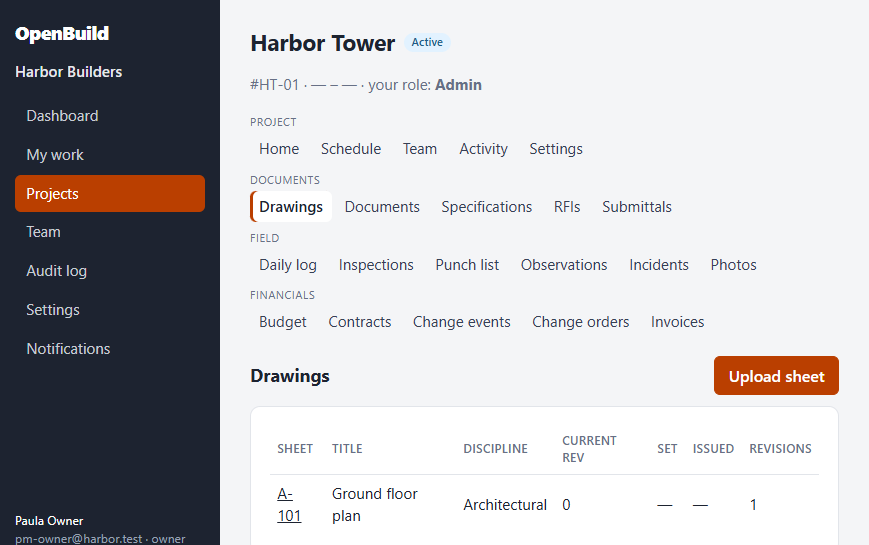
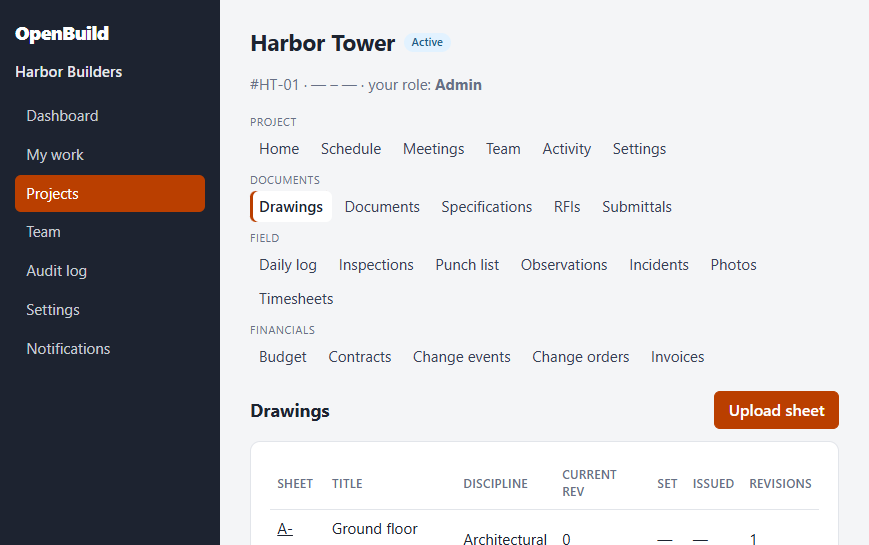
MFA recovery codes and admin reset; inline confirmations; CUA run 32/32
Ten hashed single-use recovery codes, owner/admin reset of a member's second
factor (signs them out, cross-org guarded). Replaces blocking window.confirm
with an inline confirm step. CUA GUI run now covers meetings, timesheets and
two-factor sign-in, including after a hard restart.

diff --git a/apps/api/src/routes/account.ts b/apps/api/src/routes/account.ts
@@ -152,11 +152,13 @@ export const accountRoutes = (config: AppConfig): FastifyPluginAsync => async (a
     const [u] = await db.query<{ totp_secret: string | null; totp_enabled: boolean }>("SELECT totp_secret, totp_enabled FROM users WHERE id = $1", [user.id]);
     if (u!.totp_enabled) throw new HttpError(409, "Two-factor login is already on");
     if (!u!.totp_secret || !verifyTotp(u!.totp_secret, b.code)) throw new HttpError(400, "That code is not valid");
+    // Ten single-use recovery codes, shown once, stored only as hashes.
+    const codes = Array.from({ length: 10 }, () => newToken().token.replace(/[^A-Za-z0-9]/g, "").slice(0, 10).toLowerCase());
     await db.tx(async (q) => {
-      await q.query("UPDATE users SET totp_enabled = true WHERE id = $1", [user.id]);
+      await q.query("UPDATE users SET totp_enabled = true, mfa_recovery_hashes = $2 WHERE id = $1", [user.id, codes.map(sha256)]);
       await audit(q, { orgId: null, actorId: user.id, action: "user.mfa_enable", entityType: "user", entityId: user.id });
     });
-    return { ok: true };
+    return { ok: true, recoveryCodes: codes };
   });
 
   app.post("/me/mfa/disable", async (req) => {
@@ -166,8 +168,34 @@ export const accountRoutes = (config: AppConfig): FastifyPluginAsync => async (a
     if (!u!.totp_enabled) throw new HttpError(409, "Two-factor login is off");
     if (!(await verifyPassword(b.password, u!.password_hash)) || !verifyTotp(u!.totp_secret!, b.code)) throw new HttpError(400, "Password or code is incorrect");
     await db.tx(async (q) => {
-      await q.query("UPDATE users SET totp_enabled = false, totp_secret = NULL WHERE id = $1", [user.id]);
+      await q.query("UPDATE users SET totp_enabled = false, totp_secret = NULL, mfa_recovery_hashes = '{}' WHERE id = $1", [user.id]);
       await audit(q, { orgId: null, actorId: user.id, action: "user.mfa_disable", entityType: "user", entityId: user.id });
+    });
+    return { ok: true };
+  });
+
+  /**
+   * Lost-phone recovery by an administrator: owners can reset anyone else's second factor, admins only members'.
+   * Same cross-organization guard as reset links. The person signs in with their password and can enrol again.
+   */
+  app.post<{ Params: { orgId: string; userId: string } }>("/orgs/:orgId/members/:userId/reset-mfa", async (req) => {
+    const user = requireUser(req);
+    if (!isUuid(req.params.orgId) || !isUuid(req.params.userId)) throw new HttpError(404, "Member not found");
+    const myRole = await requireOrgRole(db, user.id, req.params.orgId, ["owner", "admin"]);
+    if (req.params.userId === user.id) throw new HttpError(400, "Use your recovery codes or account page for your own two-factor login");
+    const [target] = await db.query<{ role: string }>("SELECT role FROM org_memberships WHERE org_id = $1 AND user_id = $2", [req.params.orgId, req.params.userId]);
+    if (!target) throw new HttpError(404, "Member not found");
+    if (myRole === "admin" && target.role !== "member") throw new HttpError(403, "Admins can only reset members");
+    const [foreign] = await db.query(
+      `SELECT 1 FROM org_memberships m WHERE m.user_id = $1 AND m.org_id <> $2
+          AND NOT EXISTS (SELECT 1 FROM org_memberships me WHERE me.user_id = $3 AND me.org_id = m.org_id AND me.role = 'owner')`,
+      [req.params.userId, req.params.orgId, user.id],
+    );
+    if (foreign) throw new HttpError(403, "This person also belongs to another organization");
+    await db.tx(async (q) => {
+      await q.query("UPDATE users SET totp_enabled = false, totp_secret = NULL, mfa_recovery_hashes = '{}' WHERE id = $1", [req.params.userId]);
+      await q.query("DELETE FROM sessions WHERE user_id = $1", [req.params.userId]);
+      await audit(q, { orgId: req.params.orgId, actorId: user.id, action: "user.mfa_reset", entityType: "user", entityId: req.params.userId });
     });
     return { ok: true };
   });

diff --git a/apps/api/test/meetings.test.ts b/apps/api/test/meetings.test.ts
@@ -75,7 +75,8 @@ describe("two-factor login", () => {
     const setup = (await owner.post("/api/me/mfa/setup")).body;
     expect(setup.otpauthUrl).toMatch(/^otpauth:\/\/totp\/OpenBuild/);
     expect((await owner.post("/api/me/mfa/enable", { code: "000000" })).status).toBe(400);
-    expect((await owner.post("/api/me/mfa/enable", { code: totp(setup.secret) })).status).toBe(200);
+    const enabled = (await owner.post("/api/me/mfa/enable", { code: totp(setup.secret) })).body;
+    expect(enabled.recoveryCodes).toHaveLength(10);
     expect((await owner.get("/api/me")).body.user.mfaEnabled).toBe(true);
 
     const c = new Client(app);
@@ -86,9 +87,30 @@ describe("two-factor login", () => {
     expect((await c.post("/api/auth/login", { email: "owner@example.com", password: "wrong password!", code: totp(setup.secret) })).status).toBe(401);
     expect((await c.post("/api/auth/login", { email: "owner@example.com", password: "correct horse battery", code: totp(setup.secret) })).status).toBe(200);
 
+    // A recovery code signs in exactly once
+    const rc = enabled.recoveryCodes[0];
+    expect((await new Client(app).post("/api/auth/login", { email: "owner@example.com", password: "correct horse battery", code: rc })).status).toBe(200);
+    expect((await new Client(app).post("/api/auth/login", { email: "owner@example.com", password: "correct horse battery", code: rc })).status).toBe(401);
     expect((await owner.post("/api/me/mfa/disable", { password: "nope", code: totp(setup.secret) })).status).toBe(400);
     expect((await owner.post("/api/me/mfa/disable", { password: "correct horse battery", code: totp(setup.secret) })).status).toBe(200);
     expect((await new Client(app).post("/api/auth/login", { email: "owner@example.com", password: "correct horse battery" })).status).toBe(200);
 
+  });
+});
+
+describe("two-factor reset by an administrator", () => {
+  it("lets the owner reset a member's lost second factor, but not across organizations", async () => {
+    const { client: m, userId } = await inviteAndJoin(app, owner, orgId, "m@example.com");
+    const setup = (await m.post("/api/me/mfa/setup")).body;
+    await m.post("/api/me/mfa/enable", { code: totp(setup.secret) });
+    expect((await new Client(app).post("/api/auth/login", { email: "m@example.com", password: "another long password" })).body.mfaRequired).toBe(true);
+    const { client: admin } = await inviteAndJoin(app, owner, orgId, "a@example.com", { orgRole: "admin" });
+    expect((await admin.post(`/api/orgs/${orgId}/members/${userId}/reset-mfa`)).status).toBe(200);
+    expect((await m.get("/api/me")).status).toBe(401); // sessions revoked
+    expect((await new Client(app).post("/api/auth/login", { email: "m@example.com", password: "another long password" })).status).toBe(200);
+    const ownerId = (await owner.get("/api/me")).body.user.id;
+    expect((await admin.post(`/api/orgs/${orgId}/members/${ownerId}/reset-mfa`)).status).toBe(403);
+    const other = await registerOwner(app, "o2@example.com");
+    expect((await other.client.post(`/api/orgs/${orgId}/members/${userId}/reset-mfa`)).status).toBe(404);
   });
 });

diff --git a/apps/api/src/routes/auth.ts b/apps/api/src/routes/auth.ts
@@ -45,10 +45,10 @@ export const authRoutes = (config: AppConfig): FastifyPluginAsync => async (app)
   });
 
   app.post("/auth/login", async (req, reply) => {
-    const body = z.object({ email, password: z.string().max(200), code: z.string().trim().max(10).optional() }).parse(req.body);
+    const body = z.object({ email, password: z.string().max(200), code: z.string().trim().max(20).optional() }).parse(req.body);
     if (!loginLimiter.hit(`${req.ip}|${body.email}`)) throw new HttpError(429, "Too many sign-in attempts. Try again later.");
-    const [u] = await db.query<{ id: string; password_hash: string; disabled_at: string | null; totp_enabled: boolean; totp_secret: string | null }>(
-      "SELECT id, password_hash, disabled_at, totp_enabled, totp_secret FROM users WHERE lower(email) = $1",
+    const [u] = await db.query<{ id: string; password_hash: string; disabled_at: string | null; totp_enabled: boolean; totp_secret: string | null; mfa_recovery_hashes: string[] }>(
+      "SELECT id, password_hash, disabled_at, totp_enabled, totp_secret, mfa_recovery_hashes FROM users WHERE lower(email) = $1",
       [body.email],
     );
     // Verify against a dummy hash when the user is unknown so timing does not reveal account existence.
@@ -57,7 +57,16 @@ export const authRoutes = (config: AppConfig): FastifyPluginAsync => async (app)
     // Second factor: only asked for after the password is correct.
     if (u.totp_enabled) {
       if (!body.code) return reply.code(401).send({ error: "Enter the 6-digit code from your authenticator app", mfaRequired: true });
-      if (!verifyTotp(u.totp_secret!, body.code)) return reply.code(401).send({ error: "That code is not valid", mfaRequired: true });
+      const recovery = sha256(body.code.toLowerCase());
+      if (!verifyTotp(u.totp_secret!, body.code)) {
+        // A recovery code works once: remove it atomically so a replay fails.
+        const used = await db.query(
+          "UPDATE users SET mfa_recovery_hashes = array_remove(mfa_recovery_hashes, $2) WHERE id = $1 AND $2 = ANY(mfa_recovery_hashes) RETURNING id",
+          [u.id, recovery],
+        );
+        if (!used.length) return reply.code(401).send({ error: "That code is not valid", mfaRequired: true });
+        await audit(db, { orgId: null, actorId: u.id, action: "user.mfa_recovery_code_used", entityType: "user", entityId: u.id });
+      }
     }
     await startSession(db, reply, u.id);
     return { id: u.id };

diff --git a/apps/web/src/pages/Me.tsx b/apps/web/src/pages/Me.tsx
@@ -92,9 +92,16 @@ function WorkList({ title, rows, href, render }: { title: string; rows: any[]; h
 
 function TwoFactor({ enabled, onChange }: { enabled: boolean; onChange: () => void }) {
   const [setup, setSetup] = useState<{ secret: string; otpauthUrl: string } | null>(null);
+  const [codes, setCodes] = useState<string[] | null>(null);
   return (
     <section className="card" aria-label="Two-factor login">
       <h2>Two-factor login {enabled ? <Badge value="active" /> : null}</h2>
+      {codes && (
+        <div className="notice" role="status">
+          <strong>Save these recovery codes now.</strong> Each signs you in once if you lose your phone; they will not be shown again.
+          <ul className="recovery" aria-label="Recovery codes">{codes.map((c) => <li key={c}><code>{c}</code></li>)}</ul>
+        </div>
+      )}
       {enabled ? (
         <Form ariaLabel="Turn off two-factor login" submitLabel="Turn off two-factor login" className="flat"
           fields={[{ name: "password", label: "Password", type: "password", required: true }, { name: "code", label: "Current 6-digit code", required: true }]}
@@ -106,7 +113,7 @@ function TwoFactor({ enabled, onChange }: { enabled: boolean; onChange: () => vo
           <p className="muted small">Or open this link on the phone: <a href={setup.otpauthUrl}>add to authenticator</a></p>
           <Form ariaLabel="Confirm two-factor login" submitLabel="Turn on two-factor login" className="flat"
             fields={[{ name: "code", label: "6-digit code", required: true }]}
-            onSubmit={async (v) => { await api("POST", "/me/mfa/enable", { code: v.code }); setSetup(null); onChange(); }} />
+            onSubmit={async (v) => { const r = await api("POST", "/me/mfa/enable", { code: v.code }); setCodes(r.recoveryCodes); setSetup(null); onChange(); }} />
         </>
       ) : (
         <>

diff --git a/apps/web/src/components/ui.tsx b/apps/web/src/components/ui.tsx
@@ -210,11 +210,25 @@ export function KeyValues({ items }: { items: [string, ReactNode][] }) {
   );
 }
 
+/** Button that runs an async action; with `confirm`, it first asks inline (no blocking browser dialog). */
 export function ActionButton({ children, onClick, className, confirm: confirmText }: { children: ReactNode; onClick: () => Promise<unknown>; className?: string; confirm?: string }) {
   const { busy, error, run } = useAction();
+  const [asking, setAsking] = useState(false);
+  if (asking) {
+    return (
+      <span className="action-button confirming" role="group" aria-label="Confirm action">
+        <span className="confirm-text">{confirmText}</span>
+        <span className="confirm-buttons">
+          <button className={className?.includes("danger") ? "danger" : "primary"} disabled={busy} autoFocus onClick={() => run(onClick).then(() => setAsking(false))}>Confirm</button>
+          <button disabled={busy} onClick={() => setAsking(false)}>Cancel</button>
+        </span>
+        <ErrorText error={error} />
+      </span>
+    );
+  }
   return (
     <span className="action-button">
-      <button className={className} disabled={busy} onClick={() => (!confirmText || window.confirm(confirmText)) && run(onClick)}>{children}</button>
+      <button className={className} disabled={busy} onClick={() => (confirmText ? setAsking(true) : run(onClick))}>{children}</button>
       <ErrorText error={error} />
     </span>
   );

diff --git a/apps/web/src/pages/Team.tsx b/apps/web/src/pages/Team.tsx
@@ -10,7 +10,7 @@ function ShareBox({ link, name }: { link: ShareLink | null; name: string }) {
   return (
     <div className="span-all notice" role="status">
       {link.text}
-      <input readOnly value={link.url} aria-label={name} onFocus={(e) => e.target.select()} />
+      {link.url && <input readOnly value={link.url} aria-label={name} onFocus={(e) => e.target.select()} />}
     </div>
   );
 }
@@ -68,6 +68,7 @@ export function TeamPage({ orgId, myRole, myId }: { orgId: string; myRole: strin
                 const r = await api("POST", `/orgs/${orgId}/members/${m.id}/reset-link`);
                 setReset({ text: `${r.emailSent ? "Reset link emailed. " : ""}Password reset link for ${m.name} (valid 24 hours):`, url: `${location.origin}${r.resetPath}` });
               }}>Reset password</ActionButton>
+              <ActionButton className="link" confirm={`Turn off two-factor login for ${m.name}? They will be signed out and can enrol again.`} onClick={async () => { await api("POST", `/orgs/${orgId}/members/${m.id}/reset-mfa`); setReset({ text: `Two-factor login was reset for ${m.name}.`, url: "" }); }}>Reset 2FA</ActionButton>
               <ActionButton className="link danger" confirm={`Remove ${m.name} from the company and all its projects?`} onClick={async () => { await api("DELETE", `/orgs/${orgId}/members/${m.id}`); reload(); }}>Remove</ActionButton>
             </span>
           ) },

diff --git a/apps/web/src/workspace.css b/apps/web/src/workspace.css
@@ -29,6 +29,9 @@ button.danger:not(.link) { border-color: #f1b2ab; color: var(--warn); }
 .back:hover { color: var(--ink); }
 .row-actions { display: inline-flex; gap: .75rem; }
 .action-button { display: inline-flex; flex-direction: column; }
+.action-button.confirming { background: #fff7ed; border: 1px solid #fed7aa; border-radius: 6px; padding: .4rem .6rem; gap: .35rem; max-width: 26rem; }
+.confirm-text { font-size: .9rem; }
+.confirm-buttons { display: flex; gap: .4rem; }
 .kv { display: grid; grid-template-columns: repeat(auto-fit, minmax(200px, 1fr)); gap: .5rem 1.25rem; margin: 0 0 .75rem; }
 .kv div { min-width: 0; }
 .kv dt { font-size: .75rem; text-transform: uppercase; letter-spacing: .04em; color: var(--muted); }
@@ -116,6 +119,7 @@ button.danger:not(.link) { border-color: #f1b2ab; color: var(--warn); }
 .gantt-milestone.late { background: #b91c1c; }
 .gantt-today { position: absolute; top: -.15rem; bottom: -.15rem; width: 2px; background: var(--accent); z-index: 1; }
 
+.recovery { columns: 2; list-style: none; padding: 0; margin: .5rem 0 0; }
 .secret { font-size: 1.1rem; letter-spacing: .08em; background: #f2f4f7; padding: .3rem .5rem; border-radius: 4px; }
 .attendees { border: 1px solid var(--line); border-radius: 6px; display: flex; flex-wrap: wrap; gap: .4rem 1.2rem; }
 .attendees legend { font-size: .85rem; color: var(--muted); }

diff --git a/e2e/meetings.spec.ts b/e2e/meetings.spec.ts
@@ -19,8 +19,8 @@ test("meeting minutes with an action item, published to attendees", async ({ bro
   await owner.getByLabel("Action owner").selectOption({ label: "Pat Manager" });
   await owner.getByRole("button", { name: "Add item" }).click();
   await expect(owner.getByRole("cell", { name: "Confirm crane date" })).toBeVisible();
-  owner.once("dialog", (d) => d.accept());
   await owner.getByRole("button", { name: "Publish minutes" }).click();
+  await owner.getByRole("button", { name: "Confirm" }).click();
   await expect(owner.getByRole("heading", { name: /Minutes published/ })).toBeVisible();
   await expect(owner.getByText("No incidents this week")).toBeVisible();
 
@@ -61,7 +61,7 @@ test("two-factor login: enrol, then sign in with a code", async ({ browser }) =>
   await fresh.getByLabel("Password").fill(PASSWORD);
   await fresh.getByRole("button", { name: "Sign in" }).click();
   await expect(fresh.getByText("Enter the 6-digit code")).toBeVisible();
-  await fresh.getByLabel("Authentication code").fill(totp(secret));
+  await fresh.getByLabel(/Authentication code/).fill(totp(secret));
   await fresh.getByRole("button", { name: "Sign in" }).click();
   await expect(fresh.getByRole("heading", { name: "Dashboard" })).toBeVisible();
 });

diff --git a/apps/web/src/pages/Auth.tsx b/apps/web/src/pages/Auth.tsx
@@ -41,7 +41,7 @@ export function AuthPage({ onAuthed, allowSignup }: { onAuthed: () => void; allo
             autoComplete={mode === "login" ? "current-password" : "new-password"} />
         </Field>
         {needCode && mode === "login" && (
-          <Field label="Authentication code"><input inputMode="numeric" autoComplete="one-time-code" pattern="[0-9]{6}" value={form.code} onChange={set("code")} required autoFocus /></Field>
+          <Field label="Authentication code (or a recovery code)"><input inputMode="numeric" autoComplete="one-time-code" value={form.code} onChange={set("code")} required autoFocus /></Field>
         )}
         <ErrorText error={error} />
         <button className="primary" disabled={busy}>{mode === "login" ? "Sign in" : "Create account"}</button>

diff --git a/e2e/financials.spec.ts b/e2e/financials.spec.ts
@@ -14,8 +14,8 @@ test("budget → subcontract → change order → pay application, with correct 
   await owner.getByLabel("Original budget 05-120").fill("300000.50");
   await owner.getByRole("row", { name: /05-120/ }).getByRole("button", { name: "Save" }).click();
   await expect(owner.getByRole("row", { name: /Total/ })).toContainText("$800,000.50");
-  owner.once("dialog", (d) => d.accept());
   await owner.getByRole("button", { name: "Lock budget" }).click();
+  await owner.getByRole("button", { name: "Confirm" }).click();
   await expect(owner.getByText("Locked", { exact: true })).toBeVisible();
 
   // Subcontract

diff --git a/e2e/field.spec.ts b/e2e/field.spec.ts
@@ -26,8 +26,8 @@ test("daily log with manpower, then signed and locked", async ({ browser }) => {
   await owner.getByRole("button", { name: "Save manpower" }).click();
   await expect(owner.getByText("11 workers")).toBeVisible();
 
-  owner.once("dialog", (d) => d.accept());
   await owner.getByRole("button", { name: "Sign log" }).click();
+  await owner.getByRole("button", { name: "Confirm" }).click();
   await expect(owner.getByText(/Signed by Olive Owner/)).toBeVisible();
   await expect(owner.getByRole("button", { name: "Save log" })).toHaveCount(0);
 

diff --git a/apps/api/src/db/migrations/index.ts b/apps/api/src/db/migrations/index.ts
@@ -725,4 +725,10 @@ ALTER TABLE users ADD COLUMN totp_secret text;
 ALTER TABLE users ADD COLUMN totp_enabled boolean NOT NULL DEFAULT false;
 `,
   },
+  {
+    id: "0009_mfa_recovery",
+    sql: /* sql */ `
+ALTER TABLE users ADD COLUMN mfa_recovery_hashes text[] NOT NULL DEFAULT '{}';
+`,
+  },
 ];
